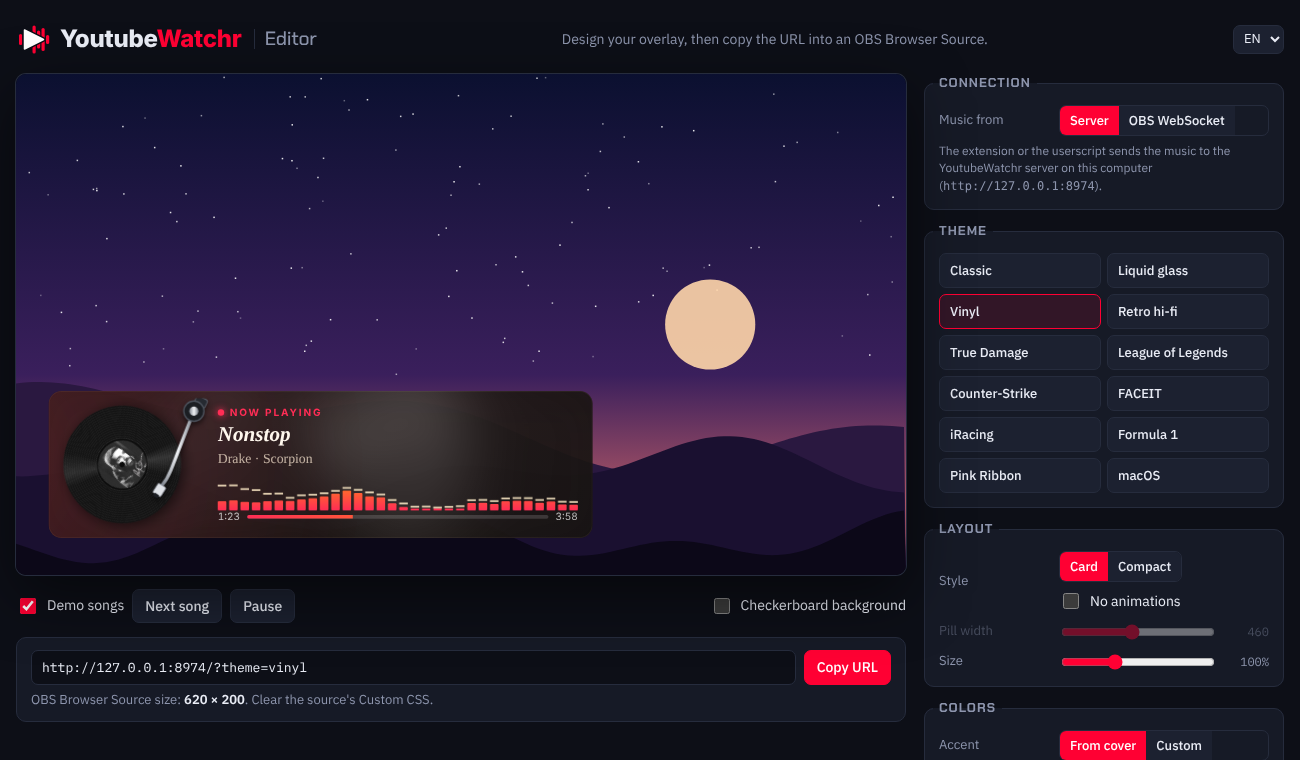
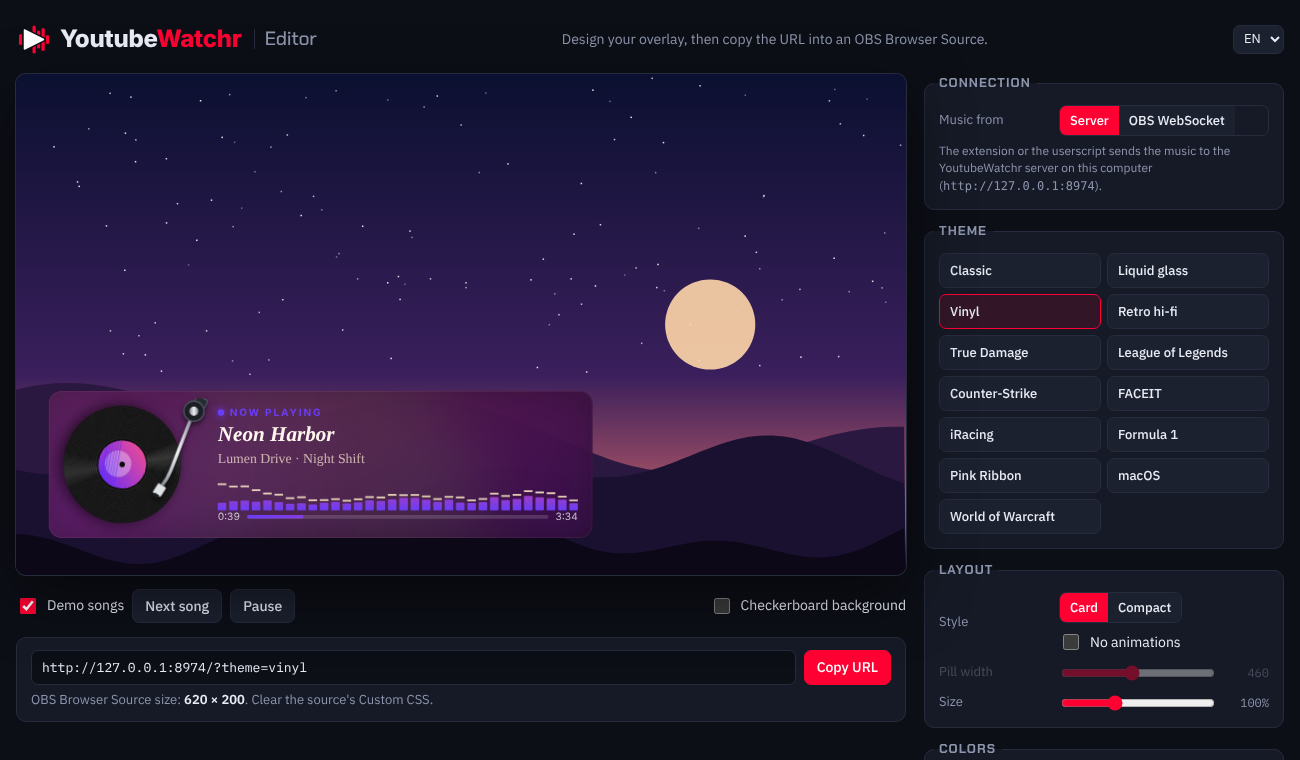
Add World of Warcraft theme
Dark slate card with a thin light border, a yellow glow top right, a short
yellow line on top, a yellow ring around the round cover, Geist and a yellow
progress bar. No shadow around the card, and the card never takes on the
cover colors. The compact version is a slim bar with a thick yellow ring,
dividers and the title in yellow. README, theme GIF and editor screenshot
updated.

diff --git a/overlay.html b/overlay.html
@@ -600,6 +600,35 @@
   body.no-card.macos:not(.compact) #card { padding-top: 16px; }
   body.no-card.macos #label { position: static; height: auto; justify-content: flex-start; }
 
+  /* theme=wow: World of Warcraft. Dark slate card with a thin light border, a
+     glow of the accent top right, a short accent line on top, Geist */
+  body.wow { font-family: 'Geist', 'Segoe UI', system-ui, sans-serif; --frost: 0; --cap: rgba(255,255,255,0); --bar-glow: 0; --bar-round: 2;
+    --bar1: var(--accent); --bar2: var(--accent); font-variant-numeric: tabular-nums; }
+  body.wow #glow, body.wow #label::before { display: none; }
+  body.wow #card { border-radius: 18px; padding: 18px 20px 18px 16px; gap: 20px; background: rgba(20,22,28,.94);
+    box-shadow: inset 0 0 0 1px rgba(255,255,255,.12); }
+  body.wow #card::before { content: ''; position: absolute; inset: 0; background: var(--accent); opacity: .14; pointer-events: none;
+    -webkit-mask-image: radial-gradient(380px 220px at 100% 0%, #000, transparent 70%); mask-image: radial-gradient(380px 220px at 100% 0%, #000, transparent 70%); }
+  body.wow #card::after { content: ''; position: absolute; top: 0; left: 24px; width: 64px; height: 3px; border-radius: 0 0 3px 3px; background: var(--accent); }
+  body.wow #art-wrap { width: 122px; height: 122px; border-radius: 50%; box-shadow: 0 0 0 3px var(--accent); background: #3a3e48; margin: 3px; }
+  body.wow #label { font-size: 12px; font-weight: 400; letter-spacing: .04em; text-transform: none; color: #b1b7c3; }
+  body.wow #title { font-size: 26px; font-weight: 700; line-height: 1.15; color: #f2f2f2; }
+  body.wow #artist { font-size: 15px; font-weight: 400; color: #d3d7df; }
+  body.wow #progress { font-size: 14px; color: #d3d7df; gap: 12px; }
+  body.wow #bar { height: 8px; border-radius: 4px; background: rgba(255,255,255,.14); }
+  body.wow #bar #fill { border-radius: 4px; background: var(--accent); }
+  /* compact: a slim bar. Thick accent ring with a dim rest, dividers, title in the accent */
+  body.compact.wow { --cfs: 18px; }
+  body.compact.wow #card { border-radius: 999px; padding: 8px 26px 8px 8px; gap: 14px; background: rgba(18,20,26,.74); box-shadow: inset 0 0 0 1px rgba(255,255,255,.2); }
+  body.compact.wow #card::before, body.compact.wow #card::after { display: none; }
+  body.compact.wow #art-wrap { width: 44px; height: 44px; margin: 0; box-shadow: none; }
+  body.compact.wow:not(.no-progress) #art-wrap { background: conic-gradient(var(--accent) calc(var(--p, 0) * 1%), color-mix(in srgb, var(--accent) 32%, #3a3e48) 0); }
+  body.compact.wow:not(.no-progress) #art-wrap img { inset: 5px; width: calc(100% - 10px); height: calc(100% - 10px); }
+  body.compact.wow #info { gap: 14px; }
+  body.compact.wow #eq { padding-right: 14px; box-sizing: content-box; border-right: 1px solid rgba(255,255,255,.2); }
+  body.compact.wow #title { font-weight: 700; color: var(--accent); }
+  body.compact.wow #artist { padding-left: 14px; border-left-color: rgba(255,255,255,.2); color: #d3d7df; }
+
   /* compact versions keep the hard edges */
   body.compact.lol #card, body.compact.cs #card { border-radius: 0; }
   body.compact.cs #label { display: none; }
@@ -675,7 +704,7 @@
 const SAVED = typeof window.YTW_SAVED === 'string' && !location.search;
 const q = new URLSearchParams(SAVED ? window.YTW_SAVED : location.search);
 const opt = {
-  theme: q.get('theme') || 'classic', // classic | glass | vinyl | retro | truedamage | lol | cs | faceit | iracing | f1 | pinkribbon | macos ("minimal" = classic + compact)
+  theme: q.get('theme') || 'classic', // classic | glass | vinyl | retro | truedamage | lol | cs | faceit | iracing | f1 | pinkribbon | macos | wow ("minimal" = classic + compact)
   compact: q.get('compact') === '1' || q.get('theme') === 'minimal',
   bars: +q.get('bars') || (q.get('compact') === '1' || q.get('theme') === 'minimal' ? 7 : q.get('theme') === 'faceit' ? 12 : 32),
   accent: q.get('accent'),            // fixed hex color; otherwise taken from the cover
@@ -706,16 +735,16 @@ const opt = {
 };
 if (opt.theme === 'minimal') opt.theme = 'classic';
 if (opt.theme === 'truedamage') document.body.classList.add('vinyl');
-document.body.classList.add(['glass', 'vinyl', 'retro', 'lol', 'cs', 'faceit', 'truedamage', 'iracing', 'f1', 'pinkribbon', 'macos'].includes(opt.theme) ? opt.theme : 'classic');
+document.body.classList.add(['glass', 'vinyl', 'retro', 'lol', 'cs', 'faceit', 'truedamage', 'iracing', 'f1', 'pinkribbon', 'macos', 'wow'].includes(opt.theme) ? opt.theme : 'classic');
 document.body.classList.toggle('compact', opt.compact);
-const FONTS = { retro: 'VT323', lol: 'Cinzel:wght@600;700', truedamage: 'Cinzel:wght@600;700', cs: 'Rajdhani:wght@600;700', faceit: 'Geist:wght@400;600;700', iracing: 'Roboto:wght@500;700', f1: 'Titillium+Web:wght@400;700;900', pinkribbon: 'Lato:wght@400;700&family=Playfair+Display:wght@700' };
+const FONTS = { retro: 'VT323', lol: 'Cinzel:wght@600;700', truedamage: 'Cinzel:wght@600;700', cs: 'Rajdhani:wght@600;700', faceit: 'Geist:wght@400;600;700', iracing: 'Roboto:wght@500;700', f1: 'Titillium+Web:wght@400;700;900', pinkribbon: 'Lato:wght@400;700&family=Playfair+Display:wght@700', wow: 'Geist:wght@400;600;700' };
 if (FONTS[opt.theme]) {
   const f = document.createElement('link');
   f.rel = 'stylesheet'; f.href = opt.fonts || `https://fonts.googleapis.com/css2?family=${FONTS[opt.theme]}&display=swap`;
   document.head.appendChild(f);
 }
 // Game themes use their own palette instead of colors picked from the cover.
-const BRAND = { lol: ['#c8aa6e', '#0ac8b9'], cs: ['#e8c269', '#8db4e2'], faceit: ['#ff5500', '#ff5500'], truedamage: ['#2bf0c8', '#b026ff'], iracing: ['#1e6bff', '#22d34b'], f1: ['#e10600', '#ff5a4f'], pinkribbon: ['#e0457b', '#f7a1c0'] }[opt.theme];
+const BRAND = { lol: ['#c8aa6e', '#0ac8b9'], cs: ['#e8c269', '#8db4e2'], faceit: ['#ff5500', '#ff5500'], truedamage: ['#2bf0c8', '#b026ff'], iracing: ['#1e6bff', '#22d34b'], f1: ['#e10600', '#ff5a4f'], pinkribbon: ['#e0457b', '#f7a1c0'], wow: ['#ffd100', '#ffd100'] }[opt.theme];
 document.body.classList.toggle('hide-paused', opt.hidePaused);
 document.body.classList.toggle('no-card', !opt.card);
 document.body.classList.toggle('no-progress', !opt.progress);

diff --git a/editor.html b/editor.html
@@ -459,9 +459,9 @@ function applyLang() {
 const THEMES = [
   ['classic', 'Classic'], ['glass', 'Liquid glass'], ['vinyl', 'Vinyl'], ['retro', 'Retro hi-fi'],
   ['truedamage', 'True Damage'], ['lol', 'League of Legends'], ['cs', 'Counter-Strike'], ['faceit', 'FACEIT'],
-  ['iracing', 'iRacing'], ['f1', 'Formula 1'], ['pinkribbon', 'Pink Ribbon'], ['macos', 'macOS'],
+  ['iracing', 'iRacing'], ['f1', 'Formula 1'], ['pinkribbon', 'Pink Ribbon'], ['macos', 'macOS'], ['wow', 'World of Warcraft'],
 ];
-const BRAND_THEMES = ['lol', 'cs', 'faceit', 'truedamage', 'iracing', 'f1', 'pinkribbon'];
+const BRAND_THEMES = ['lol', 'cs', 'faceit', 'truedamage', 'iracing', 'f1', 'pinkribbon', 'wow'];
 const DEFAULTS = {
   theme: 'classic', compact: false, still: false, width: 460, scale: 1,
   accentMode: 'auto', accent: '#ff3d6e', accent2: '#ffb000',

diff --git a/README.md b/README.md
@@ -8,10 +8,10 @@
 Show the song you're playing on **YouTube Music** in your OBS stream: cover, title, artist, progress and an equalizer that moves with the music.
 
 <p align="center">
-  <img src="docs/themes.gif" alt="The overlay cycling through all twelve themes: Classic, Liquid glass, Vinyl, Retro hi-fi, True Damage, League of Legends, Counter-Strike, FACEIT, iRacing, Formula 1, Pink Ribbon and macOS, each with a live equalizer" width="720">
+  <img src="docs/themes.gif" alt="The overlay cycling through all thirteen themes: Classic, Liquid glass, Vinyl, Retro hi-fi, True Damage, League of Legends, Counter-Strike, FACEIT, iRacing, Formula 1, Pink Ribbon, macOS and World of Warcraft, each with a live equalizer" width="720">
 </p>
 
-- 12 designs, from a clean card to a spinning record, plus game styles for League of Legends, Counter-Strike and FACEIT, racing styles for iRacing and Formula 1, a pink ribbon for breast cancer awareness and a macOS window
+- 13 designs, from a clean card to a spinning record, plus game styles for League of Legends, Counter-Strike, FACEIT and World of Warcraft, racing styles for iRacing and Formula 1, a pink ribbon for breast cancer awareness and a macOS window
 - An editor in your browser to change colors, fonts, size and more, with a live preview
 - Host it on your own server with a login: one OBS URL that never changes, and your changes show up in OBS right away
 - Or run it only on your own computer, without an account: with just the browser extension through OBS WebSocket, or with a small local server
@@ -123,7 +123,7 @@ Every theme also has a **compact** version, a slim one-line bar where the progre
   <img src="docs/compact.png" alt="Compact versions of the Liquid glass and Vinyl themes">
 </p>
 
-Most themes take their colors from the album cover. The game, racing and `pinkribbon` themes use their own colors, so their card looks the same with every cover. `pinkribbon` is a light pink card with the pink ribbon of breast cancer awareness. In `iracing` the equalizer looks like the shift lights of a sim-racing wheel: green, yellow, red and blue LEDs. `macos` is a dark macOS window with the three window buttons in the title bar.
+Most themes take their colors from the album cover. The game, racing and `pinkribbon` themes use their own colors, so their card looks the same with every cover. `pinkribbon` is a light pink card with the pink ribbon of breast cancer awareness. In `iracing` the equalizer looks like the shift lights of a sim-racing wheel: green, yellow, red and blue LEDs. `macos` is a dark macOS window with the three window buttons in the title bar. `wow` is a dark card with a yellow ring around the cover and a yellow progress bar.
 
 ## All options
 
@@ -133,7 +133,7 @@ The editor writes these for you. If you prefer, add them to the OBS URL yourself
 
 | Option | Example | What it does |
 |---|---|---|
-| `theme` | `?theme=vinyl` | `classic` (default), `glass`, `vinyl`, `retro`, `truedamage`, `lol`, `cs`, `faceit`, `iracing`, `f1`, `pinkribbon` or `macos` |
+| `theme` | `?theme=vinyl` | `classic` (default), `glass`, `vinyl`, `retro`, `truedamage`, `lol`, `cs`, `faceit`, `iracing`, `f1`, `pinkribbon`, `macos` or `wow` |
 | `compact` | `?compact=1` | Slim one-line version |
 | `width` | `?compact=1&width=380` | Width of the compact bar in pixels (default 460). Long names scroll inside |
 | `scale` | `?scale=1.5` | Make everything bigger or smaller (0.3 to 3). Multiply the OBS width and height by the same number |
